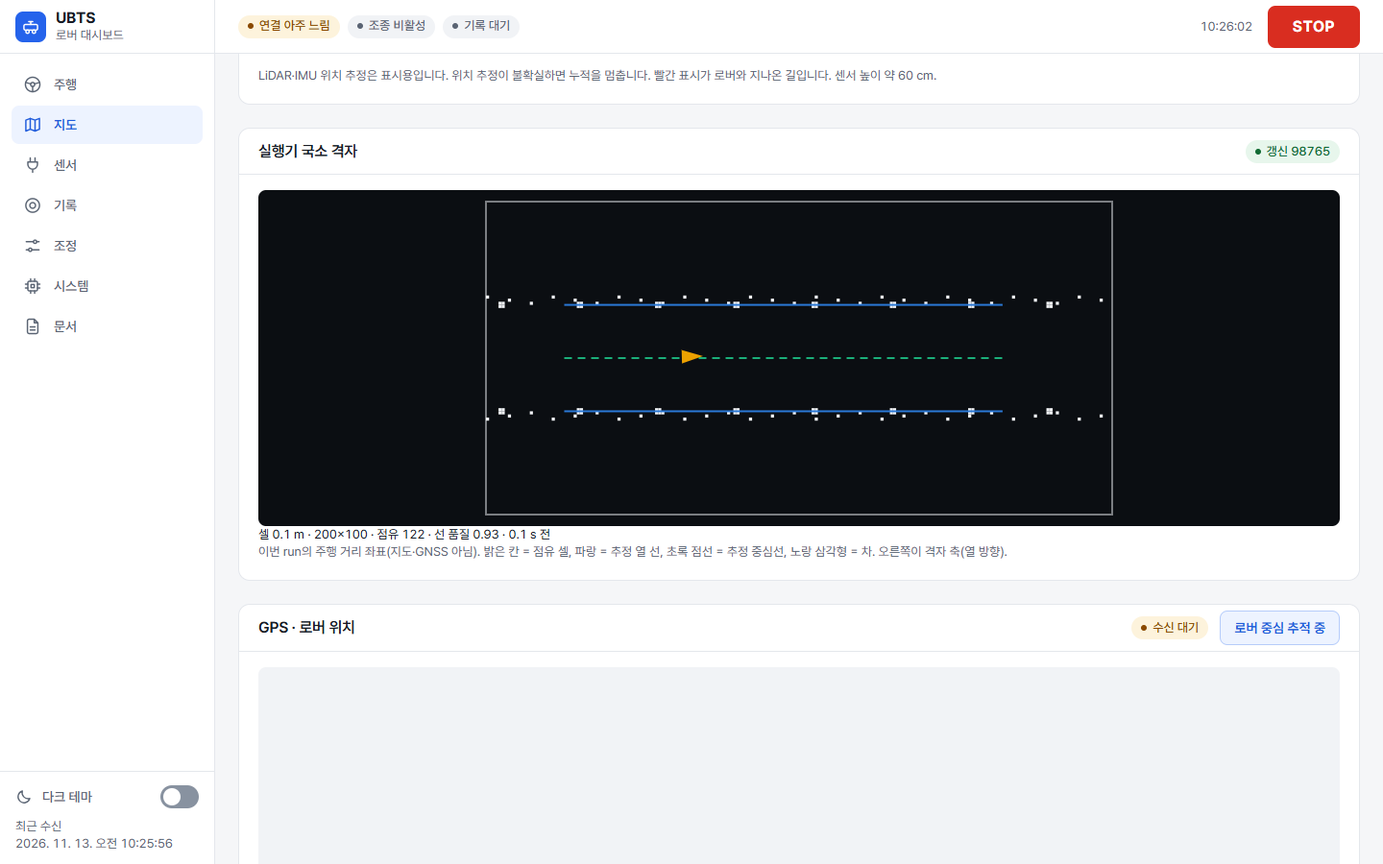
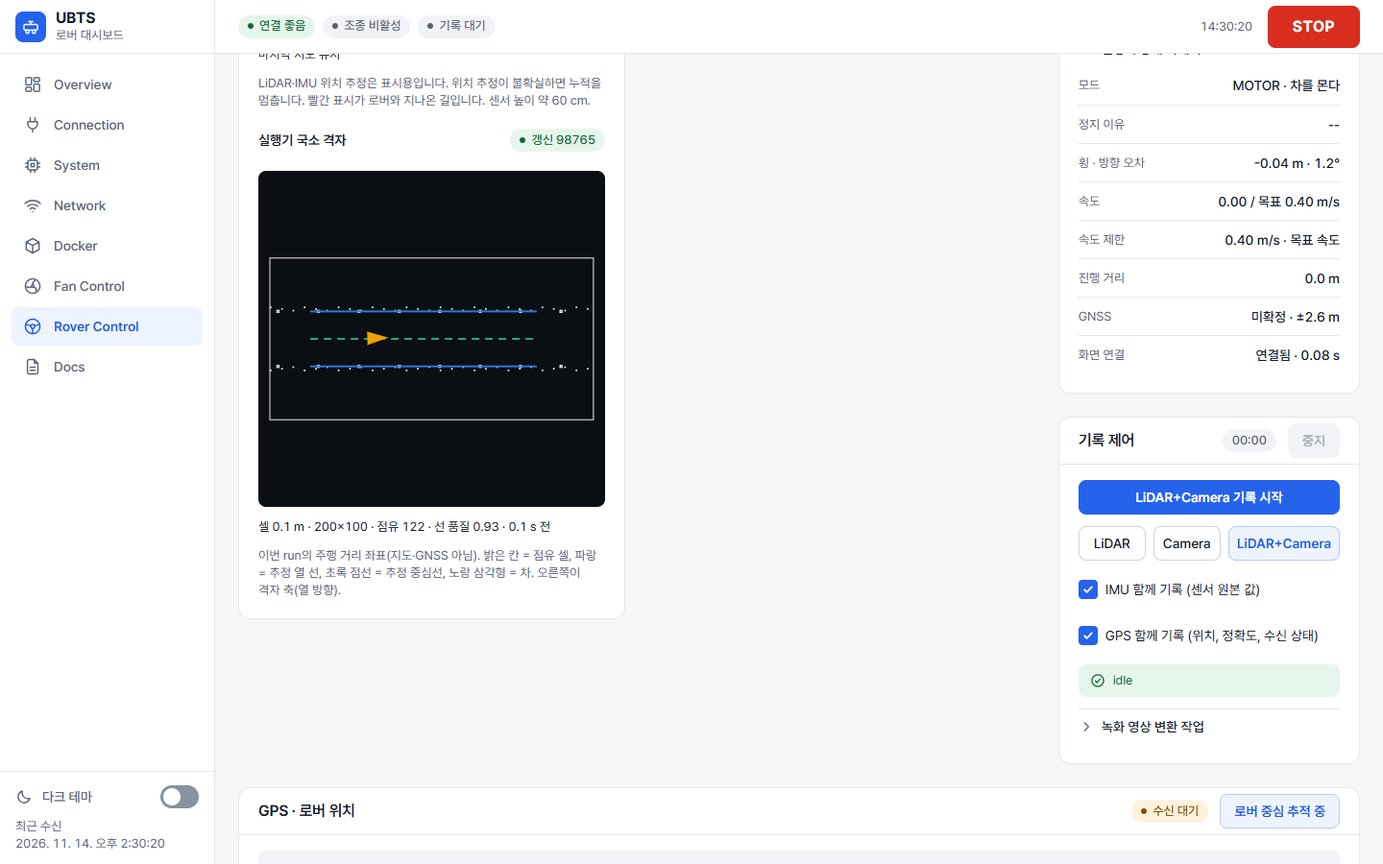
Docs: the restored menu pages and where the new parts of Rover Control are
docs/SCREENS_KO.md is rewritten for UI-16: the eight menu pages with
their panels in the old order, the six-screen addresses as aliases, the
place and id of each new part (steering, potentiometer, autonomy, field
tuning values, executor local grid) and the stream and poll rules of a
page with many panels. The README describes the eight pages; its
pictures are taken again from the mock server (Rover Control 1440 and
390, the steering panel on a phone, the autonomy section with the local
grid, the opened tuning values, the local grid under the live map; the
largest is 175 kB). The steering server specification, the documents
index, the install kit notes, the AP checklist and the slow-link bench
notes name the pages of the restored layout.

diff --git a/README.md b/README.md
@@ -5,60 +5,66 @@ UNIST BTS 과수원 로버의 웹 대시보드입니다. 차에 실린 Jetson에
 조종과 STOP이 먼저 지나가게 만들었습니다.
 
 > **English summary.** Web dashboard of a small orchard rover (a converted ride-on toy car). It runs on the rover's
-> Jetson Orin Nano and is opened from a phone or laptop over the rover's own 2.4 GHz Wi-Fi access point. Six screens:
-> drive (manual control with a STOP that always goes first, camera or LiDAR view, autonomy start/stop), map (live
-> occupancy grid, GNSS position), sensors (2D LiDAR RPLIDAR S2, BNO085 IMU, USB camera, link status), records (recording
-> and synchronized playback), tuning
-> (the row executor's field tuning set) and system (Jetson resources, network, Docker, fan). The server is plain Python
+> Jetson Orin Nano and is opened from a phone or laptop over the rover's own 2.4 GHz Wi-Fi access point. Eight menu
+> pages, as before the redesign: Overview, Connection (2D LiDAR RPLIDAR S2, USB camera, link status), System (Jetson
+> resources), Network, Docker, Fan Control, Rover Control (LiDAR with the live occupancy grid map, camera, GNSS position,
+> BNO085 IMU, manual control with a STOP that always goes first, autonomy start/stop, the row executor's field tuning
+> set, recording and synchronized playback) and Docs. A STOP is in the status bar of every page. The server is plain Python
 > (standard library HTTP server, no web framework); sensors come from ROS 2 bridge containers over WebSocket, manual
 > control goes to the motor bridge over a Unix socket, autonomy goes through the row executor's operator API. The vehicle
 > is being refitted from differential (left/right PWM) to front-wheel steering; both control panels exist. The slow-link
 > work was measured on a PC link emulator, not yet on the rover's real Wi-Fi. The documents are in Korean.
 
-| 주행 화면 (노트북 1440 px) | 휴대폰 (390 px) |
+| Rover Control (노트북 1440 px) | 휴대폰 (390 px) |
 |---|---|
-| ![주행 화면, 노트북](docs/assets/screens/drive_1440.png) | ![주행 화면, 휴대폰](docs/assets/screens/drive_390.png) |
+| ![Rover Control, 노트북](docs/assets/screens/rover_control_1440.png) | ![Rover Control, 휴대폰](docs/assets/screens/rover_control_390.png) |
 
-[화면 · 모의 자료] 2026-11-13 화면 6개 판. 화면 점검 도구의 모의 서버(`tools/ui_check`)가 내는 예시 자료로 찍었다(실제 센서 값이 아니다).
-왼쪽은 LiDAR 큰 보기와 차동 차량의 주행 제어, 오른쪽은 같은 화면의 휴대폰 첫 화면이다. STOP은 모든 화면의 상태 막대와 주행 제어에 있다.
+[화면 · 모의 자료] 2026-11-14 판(메뉴를 수정 전 구성으로 되돌림). 화면 점검 도구의 모의 서버(`tools/ui_check`)가 내는 예시 자료로 찍었다(실제 센서 값이 아니다).
+왼쪽은 Rover Control의 첫 화면(LiDAR, 카메라, 차동 차량의 주행 제어), 오른쪽은 같은 페이지의 휴대폰 첫 화면이다. STOP은 모든 페이지의 상태 막대와 주행 제어에 있다.
 
 > **지금 상태.** 화면과 서버는 가짜 센서·가짜 MCU·가짜 실행기와 느린 연결 시험대로 확인했다. 조향 차량(앞바퀴 조향, 조향 펌웨어 V3)은
 > 아직 차에 없어서 조향 화면은 실차에서 확인하지 않았다. 이 판은 Jetson에 아직 설치하지 않았다(설치 묶음은 준비됨). 자세한 것은 [현재 한계](#현재-한계).
 
 ## 주요 기능
 
-**화면 6개.** 휴대폰과 노트북 모두에서 쓰도록 다시 나눴다([`docs/SCREENS_KO.md`](docs/SCREENS_KO.md)). 메뉴는 한글이다.
+**메뉴 8쪽.** 메뉴와 페이지 구성은 화면 개편 전과 같다(2026-11-14 사용자 지시로 되돌림, [`docs/SCREENS_KO.md`](docs/SCREENS_KO.md)).
+디자인(색·글꼴·부품)과 상태 막대의 STOP, 느린 연결 최적화는 새 판 그대로다. 그때 없던 기능은 Rover Control 안에 있다.
 
-| 화면 | 주소 | 하는 일 |
+| 메뉴 | 주소 | 하는 일 |
 | --- | --- | --- |
-| 주행 | `/rover-control` | 조종 활성화와 STOP, 차동 패드(W/A/S/D) 또는 조향 패널, 속도 상한, 카메라·LiDAR 중 하나를 크게, 자율 시작·정지 |
-| 지도 | `/map` | 실시간 점유 격자 지도(LiDAR·IMU), 실행기의 국소 격자와 추정 열 선·중심선, GPS 위치(오프라인 지도) |
-| 센서 | `/sensors` | LiDAR·카메라·IMU·GPS 상태와 보기, 브리지·ESP USB·ROS·녹화기 연동 상태, 조향 가변저항 |
-| 기록 | `/records` | 녹화 시작·멈춤, 기록 목록, 센서·영상 동기 재생, 기록 지도, 내려받기 |
-| 조정 | `/tuning` | 자율 실행기의 현장 조정 묶음(기본 값 바꾸기, 프리셋, 변경 기록). 차가 섰을 때만 바뀐다 |
-| 시스템 | `/system` | Jetson CPU·메모리·디스크·온도, 네트워크와 Wi-Fi/AP 전환, Docker 컨테이너, 팬 |
+| Overview | `/` | CPU·메모리·외부 IP·Docker 요약, CPU / Memory와 Network RX / TX 그래프, ROS2 / Rover 연결, Jetson 정보 |
+| Connection | `/connection` | LiDAR·카메라 연결 상태, RPLIDAR 상태 확인, 2D LiDAR 지도(내려받기), 카메라 실시간 화면, 서비스 연결, ROS2 센서 링크 |
+| System | `/system` | Jetson CPU(코어별)·메모리·Swap·네트워크·전력 그래프, 디스크 |
+| Network | `/network` | 외부·내부 주소, 오프라인 AP / 저장된 Wi-Fi 전환, RX / TX, 연결 정보 |
+| Docker | `/docker` | 컨테이너 CPU·메모리, 목록, 상세·로그, 시작·중지·재시작(확인 창) |
+| Fan Control | `/fan` | 온도, 팬 PWM(자동·수동) |
+| Rover Control | `/rover-control` | LiDAR(안에 실시간 점유 격자 지도와 실행기 국소 격자), 카메라, GPS 위치(오프라인 지도), IMU, 주행 제어(차동 패드 또는 조향 패널, 조향 가변저항, 자율 시작·정지), 현장 조정 값(접힘), 기록 제어, 연동 상태, 기록 데이터(동기 재생, 기록 지도, 내려받기) |
+| Docs | `/docs` | 운영 문서 |
+
+화면 6개 판의 주소(`/map`, `/records`, `/tuning`, `/sensors`, `/system/*` 등)는 별칭으로 남아 그 기능이 있는 페이지로 간다.
 
 **센서 실시간.** LiDAR(RPLIDAR S2 `/scan`), 카메라(UVC, 녹화는 원본 1080p), IMU(BNO085 원본, 소프트웨어 보정 없음), GPS(ZED-F9P)를
 ROS 2 브리지 컨테이너가 WebSocket으로 보내고 대시보드 서버가 중계한다. 화면이 받은 것을 확인한 뒤에만 다음 것을 보내서 느린 연결에서 밀리지 않는다.
-화면에 보이지 않는 패널과 숨긴 탭은 받지 않는다.
+화면에 보이지 않는 패널과 숨긴 탭은 받지 않는다(Rover Control처럼 패널이 많은 페이지에서도 화면에 들어온 패널의 스트림만 연다).
 
 **조종과 STOP.** 조종 활성화 뒤 키보드(W/A/S/D, Q/E로 속도)나 화면 버튼으로 몬다. 손을 떼면 감속하고, 입력이 0.75초 끊기면 차가 스스로 선다.
 STOP·Esc·창 이탈은 즉시 정지와 조종 해제다. 조종 요청은 다른 요청과 따로, 가장 먼저 보낸다(`controlRequest`, NET-05).
 PWM 값은 요청한 출력이지 실제 바퀴 속도가 아니다(차에 휠 엔코더가 없다).
 
-**조향 차량(수동·자율·조정).** 차가 앞바퀴 조향으로 바뀌는 중이다. `DASHBOARD_VEHICLE=front_steer`면 조향 패널(구동 W/S, 조향 A/D·가운데,
-목표·측정 조향각)이 보이고, 자율 칸에서 "준비 → Arm → 자율 주행 시작"을 누르면 실행기가 열 끝까지 간다(시뮬레이션에서 확인, 실차 전).
-화면을 떠나거나 탭을 숨기면 0.5초 뒤 차가 서고, 다시 출발은 사람이 누른다. 서버 사양: [`docs/STEERING_SERVER_KO.md`](docs/STEERING_SERVER_KO.md).
+**조향 차량(수동·자율·조정).** 차가 앞바퀴 조향으로 바뀌는 중이다. `DASHBOARD_VEHICLE=front_steer`면 Rover Control의 주행 제어 패널에
+조향 패널(구동 W/S, 조향 A/D·가운데, 목표·측정 조향각)과 조향 가변저항 값이 보이고, 그 아래 자율 칸에서 "준비 → Arm → 자율 주행 시작"을 누르면
+실행기가 열 끝까지 간다(시뮬레이션에서 확인, 실차 전). Rover Control을 떠나거나 탭을 숨기면 0.5초 뒤 차가 서고(페이지 안에서 스크롤하는 것은 괜찮다),
+다시 출발은 사람이 누른다. 현장 조정 값은 같은 페이지의 접힌 칸에 있다. 서버 사양: [`docs/STEERING_SERVER_KO.md`](docs/STEERING_SERVER_KO.md).
 
 | 조향 수동 조종 (휴대폰) | 자율 주행 칸 (실행기 상태 자세히) |
 |---|---|
 | ![조향 패널](docs/assets/screens/steer_drive_390.png) | ![자율 칸](docs/assets/screens/steer_autonomy_1440.png) |
 
-| 조정 화면 | 지도: 실행기 국소 격자 |
+| 현장 조정 값(펼친 칸) | 실시간 지도 아래 실행기 국소 격자 |
 |---|---|
 | ![조정 화면](docs/assets/screens/tuning_1440.png) | ![국소 격자](docs/assets/screens/map_local_grid_1440.png) |
 
-[화면 · 모의 자료] 위 네 장은 `front_steer`(조향 차량) 화면을 모의 서버의 예시 자료로 찍은 것이다. 실행기 상태·조정 값·격자는 가짜 실행기의 값이고
+[화면 · 모의 자료] 위 네 장은 `front_steer`(조향 차량)의 Rover Control을 모의 서버의 예시 자료로 찍은 것이다(그 부분으로 스크롤한 화면). 실행기 상태·조정 값·격자는 가짜 실행기의 값이고
 현장 값이 아니다. 조정 묶음의 이름·범위·단위는 실행기가 알려 준 것을 그대로 보인다.
 
 **느린 연결 최적화.** PC에서 2.4 GHz 연결을 흉내 내는 시험대(`tools/slow_link`)로 재며 고쳤다. 아래는 그 측정의 일부다(주행 화면 2분, LiDAR는 주행 화면의
@@ -88,7 +94,7 @@ LiDAR 큰 보기, 지도는 지도 화면 10분. 기준은 화면 개편 전의 
 ```mermaid
 flowchart LR
   subgraph PHONE["휴대폰 · 노트북"]
-    B["브라우저<br/>화면 6개"]
+    B["브라우저<br/>메뉴 8쪽"]
   end
   subgraph JET["Jetson (차)"]
     D["대시보드 서버<br/>dashboard_server<br/>HTTP :8080"]
@@ -166,7 +172,7 @@ scripts/run_local.sh            # = python3 -m dashboard_server --host 127.0.0.1
 | 위치 | 내용 |
 | --- | --- |
 | `dashboard_server/` | 대시보드 서버(Python 표준 라이브러리 HTTP 서버): 화면·정적 파일, 상태 API, WebSocket 중계, 조종 중계(`rover_api.py`), 실행기 중계(`executor_proxy.py`), 조정(`steer_tuning.py`), 기록·지도, 확장 지점(`extensions.py`) |
-| `static/` | 화면: `index.html`, `app/`(화면 스크립트 17개), `steer/`(조향·자율·조정 화면), `css/`, `vendor/`(지도·영상 라이브러리, 글꼴) |
+| `static/` | 화면: `index.html`, `app/`(화면 스크립트 17개), `steer/`(Rover Control의 조향·자율·조정 값·국소 격자), `css/`, `vendor/`(지도·영상 라이브러리, 글꼴) |
 | `scripts/` | Jetson에서 도는 ROS 2 드라이버·브리지(`*_ros2_driver.py`, `*_ws_bridge.py`), 조종 브리지(차동 `rover_control_bridge.py`, 조향 V3 `steer_rover_bridge.py`), 녹화기, 기록 후처리 |
 | `deploy/` | `jetson_dashboard/`(설치 묶음), `offline_ap/`(무선 AP 전환), `systemd/`, `native_sensor_stream/`·`native_sensor_shadow/`(차동 시절 관찰 서비스) |
 | `tools/` | `ui_check/`(화면 점검), `slow_link/`(느린 통신 시험대, 현장 연결 기록 보고), `fonts/`(화면 글꼴 분할), 차동 시절 관찰 도구 |
@@ -181,7 +187,7 @@ scripts/run_local.sh            # = python3 -m dashboard_server --host 127.0.0.1
 
 | 문서 | 내용 |
 | --- | --- |
-| [`docs/SCREENS_KO.md`](docs/SCREENS_KO.md) | 화면 6개, 옛 주소, 기능 대조표 |
+| [`docs/SCREENS_KO.md`](docs/SCREENS_KO.md) | 메뉴 8쪽(수정 전 구성), Rover Control 안의 새 기능 자리, 화면 6개 주소의 별칭 |
 | [`docs/STEERING_SERVER_KO.md`](docs/STEERING_SERVER_KO.md) | 조향 차량 서버 사양: 조종 API, 조향 상태, 자율 시작·정지 중계, 조정 값, 정지 규칙, 차동 판과의 공존 |
 | [`docs/slow_link.md`](docs/slow_link.md) | 느린 연결: 시험대, 기준 측정, 목표 32개, 고친 뒤와 최종 측정 |
 | [`docs/WIFI_AP_CHECKLIST_KO.md`](docs/WIFI_AP_CHECKLIST_KO.md) | 차의 무선 AP 현장 점검표, 연결 기록(`?link_log=1`) |
@@ -203,7 +209,7 @@ python3 -m unittest discover -s tests
 node tests/test_control_path_regression.js && node tests/test_rover_browser.js && node tests/test_rover_pad_touch.js
 python3 -m unittest tests.test_control_deadman_regression
 
-# 화면 점검: 11경로 × 5화면 크기 × 자료 2종 = 110쪽, 받아들인 기록과 비교 (Playwright, 깔린 Chrome)
+# 화면 점검: 메뉴 8쪽 × 5화면 크기 × 자료 2종 = 80쪽, 받아들인 기록과 비교 (Playwright, 깔린 Chrome)
 python tools/ui_check/run_checks.py --static static --out <결과 폴더>
 python tools/ui_check/compare.py --run <결과 폴더>/ui_check.json --baseline tools/ui_check/accepted/ui_check.json
 
@@ -215,7 +221,7 @@ CI(`.github/workflows/smoke.yml`)는 컴파일과 Python 시험을 돌린다. RO
 
 ## 현재 한계
 
-- **실차 확인 전.** 이 판(화면 6개, 느린 연결 최적화, 조향 화면)은 PC에서 가짜 센서·MCU·실행기로만 확인했고 Jetson에 아직 설치하지 않았다.
+- **실차 확인 전.** 이 판(메뉴 8쪽, 느린 연결 최적화, 조향 칸)은 PC에서 가짜 센서·MCU·실행기로만 확인했고 Jetson에 아직 설치하지 않았다.
 - **조향 차량은 아직 없다.** 조향 펌웨어 V3·조향 브리지·실행기가 차에 올라가기 전까지 실제 차는 차동(좌우 PWM) 펌웨어 V2로 수동 주행한다.
   그래서 차동 시절 자율·관찰 코드는 조향 실행기로 바뀔 때까지 남겨 둔다(결정 나5, [`docs/STEERING_SERVER_KO.md`](docs/STEERING_SERVER_KO.md) 9절).
 - **느린 연결 값은 흉내 낸 값.** 연결 프로필(좋음 10 Mbit/s ~ 아주 나쁨 150 kbit/s)과 연결 등급 경계(25 / 90 / 220 ms)는 가정이다.

diff --git a/docs/SCREENS_KO.md b/docs/SCREENS_KO.md
@@ -1,54 +1,74 @@
-# 화면 6개 재구성 (UI-06 ~ UI-14)
+# 메뉴와 페이지 구성 (UI-16, 수정 전 구성으로 되돌림)
 
-- 작성: 2026-11-13 (묶음 S4b 2단계, 브랜치 `screens-20261113`, 시작 `cfdfbe6`).
-- 결정: todo 나15(휴대폰·노트북 모두, 메뉴는 한글, `/research` 삭제, 시스템 관리는 한 화면). 화면은 주행·지도·센서·기록·조정·시스템 6개이고 문서는 메뉴 끝의 보조 화면으로 둔다.
-- 원칙: 조종·STOP 코드(`static/app/10-rover-control.js`)와 `controlRequest()`(`static/app/01-format-http.js`)는 글자 그대로 둔다. 그래서 주행 화면의 주소는 `/rover-control` 그대로다. 상태 막대(연결 등급 배지 포함)의 동작은 그대로다.
+- 작성: 2026-11-14 (브랜치 `ui-menu-restore-20261114`, 시작 `a92cfec`).
+- 사용자 지시(2026-11-14): "대시보드 메뉴 구성이 수정하기 전 버전이랑 동일해야해." 답 세 가지:
+  1. 메뉴는 수정 전과 같은 8개(영문 이름, 같은 순서, 같은 주소). Research(`/research`)는 되살리지 않는다.
+  2. 각 페이지의 내용도 수정 전의 페이지와 순서로 돌린다.
+  3. 그때 없던 기능(앞바퀴 조향 조종, 자율 시작·정지, 현장 조정 값, 실행기 국소 격자, 조향 가변저항 표시)은 Rover Control 안에 둔다. 메뉴 항목을 더하지 않는다.
+- 기준: 수정 전은 `becfc6d`(태그 `main-before-ui-20261112` 뒤에 1차 버그 수정만 들어간 판)의 `static/index.html`이다.
+  `tests/test_menu_restore.js`가 메뉴(이름·순서·주소)와 페이지마다의 패널 제목(순서 포함)을 이 판과 견준다(`tests/fixtures/menu_before_redesign_becfc6d.json`).
+- 그대로 둔 것: 새 디자인(색·글꼴·부품, 아이콘), 모든 페이지 위의 상태 막대와 STOP, 느린 연결 최적화(필요할 때 받는 라이브러리, 보이는 패널만 스트림,
+  상태 묶음, 연결 등급), 조종·STOP 코드(`static/app/10-rover-control.js`, `controlRequest()`, `static/steer/steer-drive.mjs`, `steer-control-rules.js`, `auto-panel.mjs`는 글자 그대로).
+- 2026-11-13의 화면 6개 구성(UI-06)은 이 문서의 git 이력(`a92cfec`)에 있다. 화면 점검의 그때 기록은 `tools/ui_check/accepted/six_screens_20261113.json`.
 
-## 1. 경로
+## 1. 메뉴와 주소
 
-| 화면 | 주소 | 옛 주소(별칭) |
-| --- | --- | --- |
-| 주행 | `/rover-control` | `/`, `/drive` |
-| 지도 | `/map` | — |
-| 센서 | `/sensors` | `/connection` |
-| 기록 | `/records` | — |
-| 조정 | `/tuning` | — |
-| 시스템 | `/system`(요약), `/system/resources`, `/system/network`, `/system/docker`, `/system/fan` | `/network`, `/docker`, `/fan`, `/research` |
-| 문서 | `/docs`, `/docs/<문서>` | — |
-
-옛 주소로 들어오면 새 주소로 바꿔 적는다(`history.replaceState`). 서버는 옛 주소와 새 주소 모두에 같은 화면을 준다.
-
-## 2. 기능 대조표 (옛 위치 → 새 위치)
-
-| 옛 화면 | 옛 패널 | 새 화면 | 비고 |
+| 메뉴 | 주소 | 페이지 제목 | 패널(수정 전 순서) |
 | --- | --- | --- | --- |
-| 주행 | 상태 띠(ESP, 모드, ROS 2, 기록) | 주행 | 그대로 |
-| 주행 | 주행 제어(차동 패드, 조향 패널, 자율 칸) | 주행 | 맨 앞. 휴대폰 첫 화면에 STOP·활성화·구동·조향 |
-| 주행 | 카메라 | 주행 | 큰 보기: 카메라와 LiDAR 가운데 하나를 고른다 |
-| 주행 | LiDAR(극좌표 그림, 범위·점 수) | 주행 | 큰 보기 |
-| 주행 | LiDAR 안 실시간 점유 격자 지도, 매핑 작업 관리 | 지도 | 지도 화면의 첫 칸 |
-| 주행 | GPS · 로버 위치(지도, 연결 정보) | 지도 | 지도 화면의 둘째 칸 |
-| — | 실행기 국소 격자와 추정 열 선·중심선(새) | 지도 | 실행기가 `local_grid_map`을 낼 때만 보인다 |
-| 주행 | IMU | 센서 | |
-| 주행 | 연동 상태(브리지, ESP USB, ROS, 녹화기) | 센서 | |
-| 주행 | 기록 제어(시작·멈춤, 종류, 매체 작업) | 기록 | 상태 막대의 기록 표시는 모든 화면에 그대로 |
-| 주행 | 기록 데이터(목록, 동기 재생, 기록 지도, 내려받기) | 기록 | 재생 규칙은 그대로 |
-| 연결 | 상태 띠(LiDAR, 프로토콜, 스캔, 카메라) | 센서 | |
-| 연결 | RPLIDAR 상태 확인 | 센서 | |
-| 연결 | 2D LiDAR 지도(다운로드 포함) | 센서 | 센서 화면의 LiDAR 보기 하나 |
-| 연결 | 카메라 실시간 화면(해상도·FPS) | 센서 | 센서 화면의 카메라 보기 하나 |
-| 연결 | 서비스 연결, ROS 2 센서 연결 | 센서 | |
-| 개요 | 상태 띠, CPU·메모리, 네트워크, ROS 2·로버 연결, Jetson 정보 | 시스템 · 요약 | |
-| 시스템 | CPU, 메모리, Swap, 네트워크, 전력, 디스크 | 시스템 · 자원 | |
-| 네트워크 | Wi-Fi 방식, RX·TX, 연결 정보 | 시스템 · 네트워크 | |
-| 컨테이너 | 상태 띠, CPU·메모리, 목록·자세히·로그 | 시스템 · 컨테이너 | |
-| 팬 | 팬 출력, 팬 온도 | 시스템 · 팬 | |
-| 연구 | 센서 텔레메트리, 실험 데이터, 수행계획 | 지움 | 결정 나15. 서버의 `/api/plan`은 그대로 |
-| 조정 | 기본·고급 묶음, 안전 한계, 변경 기록 | 조정 | 실행기 현장 조정 묶음(field_tuning)을 그대로 그린다: 기본 묶음 바꾸기, 프리셋 불러오기·저장, 고급·잠금 값 보기 |
-| 문서 | 목록, 읽기 | 문서 | 메뉴 끝 |
+| Overview | `/` | UBTS Dashboard | 상태 띠(CPU, 메모리, 외부 IP, Docker), CPU / Memory, Network RX / TX, ROS2 / Rover, Jetson 정보 |
+| Connection | `/connection` | 연결 상태 | 상태 띠(LiDAR, 프로토콜, 스캔 수신, 카메라), RPLIDAR 상태 확인, 2D LiDAR 지도, 카메라 실시간 화면, 서비스 연결, ROS2 센서 링크 |
+| System | `/system` | 시스템 리소스 | CPU, Memory, Swap, Network, Power, Disk |
+| Network | `/network` | 네트워크 상태 | 상태 띠(외부 IP, 내부 주소), 오프라인 AP / 저장된 Wi-Fi, RX / TX, 연결 정보 |
+| Docker | `/docker` | 컨테이너 대시보드 | 상태 띠, Container CPU, Container Memory, 컨테이너 목록, 컨테이너 상세(중지·재시작 전 확인 창) |
+| Fan Control | `/fan` | Fan Control | 온도, 팬 출력, Fan Temperature |
+| Rover Control | `/rover-control` | Rover Control | 2절 |
+| Docs | `/docs`, `/docs/<문서>` | 문서 | 문서 목록, 읽기 |
 
-한 화면에 LiDAR·카메라 보기는 하나씩만 있다(주행 큰 보기, 센서 화면). 화면을 떠나면 그 화면의 웹소켓을 닫는다(지금 규칙 그대로: LiDAR·카메라·IMU는 주행과 센서 화면에서만 연다).
+화면 6개 구성의 주소는 별칭으로 남는다. 들어오면 페이지가 주소창을 메뉴의 주소로 바꿔 적고(`history.replaceState`), Rover Control의 한 부분을
+가리키던 주소는 그 부분으로 한 번 스크롤한다(`ROUTE_FOCUS`, `static/app/00-config-state.js`). 서버(`APP_ROUTES`, `dashboard_server/app.py`)는 둘 다에 같은 쪽을 준다.
 
-## 3. 상태 자료 묶음
+| 옛 주소(화면 6개) | 가는 곳 |
+| --- | --- |
+| `/drive` | `/rover-control` |
+| `/map` | `/rover-control`, 실시간 점유 격자 지도로 스크롤 |
+| `/records` | `/rover-control`, 기록 제어로 스크롤 |
+| `/tuning` | `/rover-control`, 현장 조정 값을 펼치고 스크롤 |
+| `/sensors` | `/connection` |
+| `/system/resources`, `/system/network`, `/system/docker`, `/system/fan` | `/system`, `/network`, `/docker`, `/fan` |
+| `/research` | `/` (연구 페이지는 없앤 채로 둔다, 결정 나15) |
 
-`/api/telemetry?bundle=drive`(NET-06)는 주행·지도·기록·조정 화면이 쓴다. 센서와 시스템 화면은 전체 묶음을 쓴다.
+## 2. Rover Control
+
+수정 전 순서: 상태 띠(ESP8266, 모드, ROS 2, 기록) → LiDAR(안에 실시간 점유 격자 지도) → 카메라 → GPS · 로버 위치 → IMU → 주행 제어 → 기록 제어 → 연동 상태 → 기록 데이터(안에 기록된 점유 격자 지도, Recorded IMU, 기록된 로버 위치, 기록된 모터 핀 신호).
+넓은 화면(900 px 이상)에서는 수정 전처럼 세 칸이다: LiDAR | 카메라 | 주행 제어, 그 아래 기록 제어(셋째 칸), 그 아래 GPS(전체 폭), IMU와 현장 조정 값, 연동 상태, 기록 데이터.
+
+새 기능이 들어간 곳(`id`는 고정, 다른 작업이 이 이름으로 찾는다):
+
+| 새 기능 | 자리 | id |
+| --- | --- | --- |
+| 앞바퀴 조향 수동 조종(구동 W/S, 조향 A/D·가운데, 계기) (UI-07) | 주행 제어 패널, 차동 부분(자율 순항속도 줄, 활성화, 속도, 패드) 다음 | `steerDrive` |
+| 조향 가변저항(측정 각도·원값·보정·결함) | 주행 제어 패널, 조향 조종 바로 아래 | `steerPotPanel` |
+| 한 번 눌러 자율 시작, STOP, heartbeat (UI-08) | 주행 제어 패널 맨 아래 '자율주행 · 열 따라가기' | `autoPanel` |
+| 현장 조정 값(기본·고급·잠금 묶음, 프리셋, 변경 기록) (UI-12) | 주행 제어 다음의 '현장 조정 값' 패널, 접힌 칸 | `tuningPanel`, 접힘 `tuningDetails`, 폼 `tuneForm` |
+| 실행기 국소 격자와 열 선·중심선 (UI-09) | LiDAR 패널 안 실시간 점유 격자 지도 바로 아래(격자가 올 때만 보임) | `localGridPanel`, 지도 칸 `liveMapPanel` |
+
+조향·가변저항·자율 칸은 `front_steer` 대시보드(`DASHBOARD_VEHICLE=front_steer`)에서만 보이고, 차동 대시보드에서는 수정 전의 차동 패드가 보인다.
+현장 조정 값은 모든 대시보드에 있다(실행기가 없으면 그렇게 말한다).
+
+## 3. 한 페이지에 패널이 모여서 지키는 것
+
+Rover Control에 패널이 다시 모였으므로, 느린 연결에서 페이지를 열 때 모든 것을 한꺼번에 받지 않게 했다.
+
+- **스트림은 그 패널이 화면에 있을 때만 연다.** LiDAR·카메라·IMU 소켓은 그림이 화면에 들어올 때 열고, 1초 넘게 화면 밖이면 닫는다(사용자가 멈춘 것으로 치지 않음).
+  시작은 관찰기(IntersectionObserver)의 첫 보고를 기다린다. 카메라의 NET-08 규칙을 LiDAR·IMU에 그대로 썼다(`static/app/05-live-lidar-camera.js`).
+  GPS 소켓도 GPS 지도 칸이 화면에 있을 때만 연다(`static/gps-map.js`). 지도 라이브러리는 전처럼 그 칸이 가까워질 때 받는다.
+- **주기적으로 묻는 것도 보일 때만.** 실시간 점유 격자 지도와 실행기 국소 격자는 지도 칸이 화면에 있을 때만 묻는다(`static/live-map.js`, `static/steer/local-grid.mjs`).
+  현장 조정 값은 접힌 칸을 열었을 때만 묻는다(`static/steer/tuning-page.mjs`). 조향 가변저항 줄은 조향 패널이 받은 상태 답을 같이 쓰고, 그 답이 1초보다 오래됐을 때만 따로 묻는다.
+- **자율 heartbeat는 스크롤과 무관하다.** 자율 run 중에는 Rover Control이 열려 있고 탭이 보이면 heartbeat가 계속 나간다. 지도를 보려고 스크롤해도 차가 서지 않는다.
+  다른 페이지로 가거나 탭을 숨기면 전처럼 멈춘다(차가 실행기 기한 뒤 선다).
+- 상태 요청은 Rover Control만 주행 묶음(`/api/telemetry?bundle=drive`, NET-06)을 쓰고 다른 페이지는 전체를 쓴다.
+- Connection 페이지에는 LiDAR 지도와 카메라 보기가 따로 있다(수정 전과 같음). IMU 그림은 Rover Control에만 있어서 IMU 소켓은 Rover Control에서만 연다.
+
+시험: `tests/test_menu_restore.js`(메뉴·페이지 제목·새 기능 자리·별칭), `tests/test_rover_panel_streams.js`(LiDAR·IMU·카메라 소켓과 패널, 주소),
+`tests/test_rover_panel_polls.mjs`(지도·국소 격자·조정 값·가변저항의 요청), `tests/test_ui_frame.js`(상태 막대와 STOP, 페이지 머리).
+화면 점검(`tools/ui_check`) 받아들인 기록은 이 구성의 80쪽이다. 느린 연결 측정은 `docs/slow_link.md` 13절.

diff --git a/docs/STEERING_SERVER_KO.md b/docs/STEERING_SERVER_KO.md
@@ -13,7 +13,7 @@
 
 ```mermaid
 flowchart LR
-  B["브라우저<br/>(주행·조정 화면)"] -->|"HTTP /api/rover/*<br/>(수동 조종)"| D["대시보드 서버<br/>(dashboard_server)"]
+  B["브라우저<br/>(Rover Control)"] -->|"HTTP /api/rover/*<br/>(수동 조종)"| D["대시보드 서버<br/>(dashboard_server)"]
   B -->|"HTTP /api/executor/*<br/>(자율 시작·정지·조정)"| D
   D -->|"Unix 소켓 JSON 한 줄<br/>/run/ubts-rover/control.sock"| BR["조향 브리지 V3<br/>(scripts.steer_rover_bridge)"]
   D -->|"HTTP + 토큰<br/>(운영자 API)"| EX["자율 실행기<br/>(row_executor)"]
@@ -34,7 +34,7 @@ flowchart LR
 | `DASHBOARD_PROVIDER` | `패키지.모듈:클래스` | 없음 | 상태 제공자(`TelemetryProvider` 대신). 시뮬레이션 전용 |
 | `DASHBOARD_EXTRA_STATIC` | 폴더 경로 | 없음 | `/ext-static/` 아래로 내보내는 추가 정적 폴더. 시뮬레이션 전용 |
 | `DASHBOARD_EXTENSION` | `패키지.모듈` | 없음 | 추가 경로 표(`ROUTES`). 시뮬레이션 전용 |
-| `UBTS_EXECUTOR_URL` | `http://호스트:포트` | 없음 | 자율 실행기 운영자 HTTP. 없으면 자율·조정 화면은 "실행기 설정 없음" |
+| `UBTS_EXECUTOR_URL` | `http://호스트:포트` | 없음 | 자율 실행기 운영자 HTTP. 없으면 Rover Control의 자율·조정 칸은 "실행기 설정 없음" |
 | `UBTS_EXECUTOR_TOKEN_FILE` | 파일 경로 | 없음 | 실행기가 시작할 때 쓰는 토큰 파일(`operator_token.txt`) |
 
 - 화면은 `GET /api/dashboard/config`로 `{runtime_mode, vehicle_kind, executor_configured, extension}`을 받는다. 비밀 값(토큰, 경로)은 넣지 않는다.
@@ -147,9 +147,9 @@ flowchart LR
   `mode`(SHADOW/MOTOR), `state`, `reason`, `end_reason`, `controller_mode`, `profile`, `vehicle_control`, `lidar_age`, `imu_age`,
   `single_row {phase, lateral_error_m, heading_error_deg, distance_m, speed_m_s, target_speed_m_s, stop_reason, stop_category, confidence.level}`,
   `gnss {state, fix, age_s, h_acc_m, used}`, `bridge_detail {state, latch_reason}`, `lease_lost {where, error, bridge_reason, bridge_latches, steering_fault}`(규약 개정 3, 없으면 칸 없음).
-- `GET /api/executor/status?grid=1`(지도 화면)만 실행기의 국소 격자 `local_grid_map`(스키마 `ubts.row_executor.local_grid.v1`, 시뮬레이션 레포 `docs/steering/LOCAL_GRID_KO.md`)을 더 넘긴다:
+- `GET /api/executor/status?grid=1`(Rover Control의 실시간 지도 칸이 화면에 있을 때)만 실행기의 국소 격자 `local_grid_map`(스키마 `ubts.row_executor.local_grid.v1`, 시뮬레이션 레포 `docs/steering/LOCAL_GRID_KO.md`)을 더 넘긴다:
   `schema, frame, updates, axis_rad, origin_uv, occupied, encoding, age_s, cell_m, shape, bits(24 KiB 이하), cells(2,000개 이하), truncated, lines {left, right, centre, quality, stamp}, base_pose`.
-  run 주행 거리 좌표이고 GNSS가 아니다. 실행기가 내지 않으면 칸이 없고 지도 화면은 그 층을 숨긴다.
+  run 주행 거리 좌표이고 GNSS가 아니다. 실행기가 내지 않으면 칸이 없고 화면은 그 층을 숨긴다.
 
 상태 전이(실행기가 정한다. 화면은 받은 `run_state`만 보여 준다):
 
@@ -176,11 +176,11 @@ stateDiagram-v2
 | 항목 | 값 |
 | --- | --- |
 | 주 버튼 | idle·ended "준비"(start, MOTOR면 이어서 arm) → ready "Arm" → armed "자율 주행 시작"(go) → running "주행 중"(꺼짐) → paused "다시 출발"(새 go) → latched "래치 확인"(ack). go 버튼은 `go_ready`일 때만 켜고, 아니면 `go_blockers`를 한국어로 보인다(규약 개정 2) |
-| heartbeat | `run_state`가 armed·running·paused이고 상태가 새것인 동안, 주행 화면이 보이고 탭이 보일 때만 100 ms마다(규약 개정 1, 늦어도 250 ms). go 전 armed부터 보내므로 go 때 운영자 연결이 이미 새것이다(`operator_link_not_fresh` 막음 없음). 탭을 숨기거나 화면을 떠나면 멈춘다 → 실행기가 `operator_link.timeout_s` 뒤 선다(규약 개정 1: 기본 0.5 s, 범위 0.5 ~ 3.0, 화면에서 못 바꿈. 화면은 상태의 값을 보인다) |
+| heartbeat | `run_state`가 armed·running·paused이고 상태가 새것인 동안, Rover Control이 열려 있고 탭이 보일 때만(스크롤 위치와 무관) 100 ms마다(규약 개정 1, 늦어도 250 ms). go 전 armed부터 보내므로 go 때 운영자 연결이 이미 새것이다(`operator_link_not_fresh` 막음 없음). 탭을 숨기거나 화면을 떠나면 멈춘다 → 실행기가 `operator_link.timeout_s` 뒤 선다(규약 개정 1: 기본 0.5 s, 범위 0.5 ~ 3.0, 화면에서 못 바꿈. 화면은 상태의 값을 보인다) |
 | lease 잃음(규약 개정 3) | Arm 뒤 첫 go 전에 브리지가 lease를 거두면 run은 열린 채 `ready`, `go_blockers`에 `lease_lost`·`arm_first`. 주 버튼은 "Arm 다시 (브리지가 권한을 거둠)", 안내 "브리지가 권한을 거뒀다: Arm을 다시 누른다" |
 | heartbeat 409 | `session_conflict`: 다른 화면이 출발 권한을 가짐. 화면은 오류 줄에 보인다(자동으로 빼앗지 않는다) |
-| 상태 읽기 | 주행 화면이 보일 때 500 ms, 숨김이면 멈춤 [자리값] |
-| STOP | 주행 패널 STOP, 상태 막대 STOP, Esc(주행 화면): 기존 브리지 stop(한 번) 그대로에 더해, run이 있거나 실행기 상태를 모르면 실행기 stop도 보낸다. 자율 칸에 따로 STOP 버튼을 두지 않는다(같은 패널 위에 STOP이 있다) |
+| 상태 읽기 | Rover Control이 보일 때 500 ms, 숨김이면 멈춤 [자리값] |
+| STOP | 주행 패널 STOP, 상태 막대 STOP, Esc(Rover Control): 기존 브리지 stop(한 번) 그대로에 더해, run이 있거나 실행기 상태를 모르면 실행기 stop도 보낸다. 자율 칸에 따로 STOP 버튼을 두지 않는다(같은 패널 위에 STOP이 있다) |
 | 실행기 없음 | 설정 없음 → "실행기 설정 없음", 응답 없음 → "실행기 연결 안 됨". 버튼 꺼짐, STOP은 브리지 stop으로 계속 동작 |
 
 정지 이유 이름표(`stop_reason`, `single_row.stop_category`): `ROW_END` 정상 열 끝, `OBSTACLE` 열 안 장애물, `END_STRUCTURE` 열 끝 구조물, `PERCEPTION_OR_LOCALISATION` 센서·위치 추정 부족,
@@ -251,7 +251,7 @@ stateDiagram-v2
 바뀌면 태그에 보존한 뒤 내린다. 이 결정은 2026-11-13 묶음 S6에서 다시 확인했다(코드는 그대로 둠).
 
 - 그때까지 그대로 두는 것: 차동 패드와 `left`/`right` 명령, 옛 감독기 `/api/autonomy/*`, 관찰 패널, 현장 준비 점검표. 이력 경로이며 조향 차량(`front_steer`)에서는 쓰지 않는다.
-- `DASHBOARD_VEHICLE=differential`(기본)에서 화면과 서버 동작은 이 사양 전과 같다. 새 자율·조정 화면은 실행기 설정이 없으면 "설정 없음"만 보인다.
+- `DASHBOARD_VEHICLE=differential`(기본)에서 화면과 서버 동작은 이 사양 전과 같다. 새 자율·조정 칸은 실행기 설정이 없으면 "설정 없음"만 보인다.
 - `front_steer`에서는 차동 패드와 옛 자율 자리 패널을 숨기고 조향 패널을 보인다. 옛 경로 자체는 남는다.
 - 내리는 조건(모두): (1) Jetson에 V3 펌웨어와 조향 브리지(`scripts.steer_rover_bridge`, serial)가 설치되어 상태에 `steering` 블록이 나온다, (2) 사용자가 현장에서 조향 수동 조종을 확인했다, (3) 조향 실행기가 Jetson에 설치되어 자율 시작·정지를 확인했다. 셋이 채워지면 나5에 따라 내린다.
 - 내릴 묶음(세 묶음을 같이 내린다): 서버 `dashboard_server/` 의 `autonomy_settings`, `autonomy_observation`, `record_based_autonomy`, `native_autonomy_application`, `native_autonomy_supervisor`, `native_observation_client`, `native_owner_lifecycle`, `field10_shadow`, `field10_shadow_preflight`, `field_preflight`, `encoderless_drive_preview`, `_field10/`;
@@ -289,11 +289,11 @@ stateDiagram-v2
 | --- | --- | --- |
 | 확장 지점(2절, D-12) | `dashboard_server/extensions.py`, `GET /api/dashboard/config`, 화면 표시 `data-vehicle-kind` | 시뮬레이션 쪽 모듈을 이 지점에 꽂기(D-13, 묶음 S5) |
 | 조향 호스트 코드(D-11) | `scripts/esp_motor_v3.py` 등 4개와 시험 7개, compose 프로필 `steer`(기록: `STEERING_HOST_PORT_KO.md`) | 실기 ESP·USB·Jetson 확인(사용자) |
-| 수동 조향(3·4절, UI-07) | `static/steer/steer-control-rules.js`, `steer-drive.mjs`. `front_steer`에서만 보임. 주행 화면의 큰 보기(카메라·LiDAR 하나, `docs/SCREENS_KO.md`) | 실기 확인(사용자) |
+| 수동 조향(3·4절, UI-07) | `static/steer/steer-control-rules.js`, `steer-drive.mjs`. `front_steer`에서만 보임. Rover Control의 주행 제어 패널(`docs/SCREENS_KO.md`) | 실기 확인(사용자) |
 | 자율 시작·정지(6절, UI-08) | `dashboard_server/executor_proxy.py`, `static/steer/auto-model.mjs`(준비 = start 뒤 새 상태를 읽고 ready면 Arm), `auto-panel.mjs` | 실행기(S1) 실제 연결 확인 |
 | 지도의 국소 격자(6절, UI-09) | `GET /api/executor/status?grid=1`, `static/steer/local-grid.mjs`(점유 셀·열 선·중심선·차, 실행기가 낼 때만) | 지도 갱신 지연 측정, 실시간 점유 격자와 겹쳐 그리기 |
-| 조정(7절, UI-12) | `/tuning`, `dashboard_server/steer_tuning.py`(실행기 field_tuning 묶음), `static/steer/tuning-model.mjs`, `tuning-page.mjs`, 프리셋 불러오기·저장, 변경 기록 | PWM-속도 표 그래프, 고급 묶음 화면 편집(실행기에도 없음) |
-| 조향 가변저항(UI-11) | 센서 화면 카드 `static/steer/steer-sensor.mjs`(읽기만) | 실기 값 확인 |
+| 조정(7절, UI-12) | Rover Control의 접힌 '현장 조정 값' 칸(`/tuning`은 별칭), `dashboard_server/steer_tuning.py`(실행기 field_tuning 묶음), `static/steer/tuning-model.mjs`, `tuning-page.mjs`, 프리셋 불러오기·저장, 변경 기록 | PWM-속도 표 그래프, 고급 묶음 화면 편집(실행기에도 없음) |
+| 조향 가변저항(UI-11) | Rover Control 주행 제어 패널의 줄 `static/steer/steer-sensor.mjs`(읽기만, 조향 패널의 상태 답을 같이 씀) | 실기 값 확인 |
 | 조향 기록(5절) | 바꾸지 않음 | 녹화기 토픽·사이드카(P9) |
 | 조종 WebSocket(3절) | 없음(HTTP) | NET-05(S4a) 측정 뒤 결정 |
 

diff --git a/tools/slow_link/README_KO.md b/tools/slow_link/README_KO.md
@@ -140,16 +140,18 @@ python -B tools/slow_link/compare.py --replace-all --accept <r>/20261113T053845Z
 
 ## 시나리오
 
-`sensors`와 `map`을 뺀 모두 주행 화면(`/rover-control`)에서 잰다. 화면 6개(2026-11-13) 뒤 주행 화면은 카메라와 LiDAR 중 하나만 크게 보이고(기본 카메라),
-IMU는 센서 화면, 실시간 지도와 GPS는 지도 화면에 있다. 그래서 `drive`에는 LiDAR·IMU·GPS 수치가 없고, 그 수치는 `drive_lidar`·`sensors`·`map`에서 잰다.
+`sensors`를 뺀 모두 Rover Control(`/rover-control`)에서 잰다. 메뉴를 수정 전 구성으로 되돌린 뒤(UI-16, 2026-11-14) Rover Control에는
+LiDAR·카메라·GPS·IMU·조종·조정 값·기록 패널이 다시 모여 있고, 스트림과 지도 요청은 그 패널이 화면에 있을 때만 열린다(`docs/SCREENS_KO.md` 3절).
+그래서 `drive`(1366x900 첫 화면)에서는 LiDAR와 카메라가 열리고 IMU·GPS·실시간 지도는 열리지 않는다. 화면 6개(2026-11-13) 판에서는 주행 화면이
+카메라와 LiDAR 중 하나만 크게 보였다(`drive_lidar`는 그 판을 잴 때 쓴다).
 
 | 이름 | 하는 일 |
 | --- | --- |
 | `drive` | 처음 열기(빈 캐시) → 다시 열기(같은 탭) → 2분 실시간. 실시간 동안 조종 연습을 되풀이한다. 큰 보기는 카메라 |
-| `drive_lidar` | `drive`와 같고 주행 화면의 큰 보기만 LiDAR(화면의 `ubts-drive-view-v1` 값을 미리 넣는다) |
-| `sensors` | 센서 화면(`/sensors`) 처음 열기 → 2분 실시간(LiDAR, 카메라, IMU). 조종 연습 없음 |
-| `map` | 지도 화면(`/map`) 처음 열기 → 10분 실시간, 실시간 격자 지도 그리기 켬(GPS 포함). 조종 연습 없음 |
-| `drive_map` | 처음 열기 → 10분 실시간, 조종 연습. 지도 그리기 켜기를 시도하지만 화면 6개 뒤 주행 화면에는 지도가 없어 지도 수치가 비고, 10분 조종만 남는다 |
+| `drive_lidar` | 화면 6개 판에서 `drive`와 같고 주행 화면의 큰 보기만 LiDAR(화면의 `ubts-drive-view-v1` 값을 미리 넣는다). 되돌린 판에서는 `drive`와 같다 |
+| `sensors` | Connection(`/connection`, 화면 6개 판의 `/sensors`) 처음 열기 → 2분 실시간(LiDAR 지도, 카메라). 조종 연습 없음 |
+| `map` | `/map`(되돌린 판에서는 Rover Control의 별칭, 실시간 지도로 스크롤) 처음 열기 → 10분 실시간, 실시간 격자 지도 그리기 켬. 조종 연습 없음 |
+| `drive_map` | 처음 열기 → 10분 실시간, 조종 연습. 지도 그리기 켜기를 시도한다. 첫 화면에 지도 칸이 없으면 지도 요청이 없어 지도 수치가 빈다 |
 | `load` | 처음 열기와 다시 열기만 |
 | `hidden` | 1분 보이고, 탭을 숨긴 채 1분 |
 | `session_expiry` | 대시보드 세션 만료를 50초로 줄이고 150초 (스트림이 끊기는지) |

diff --git a/deploy/jetson_dashboard/README_KO.md b/deploy/jetson_dashboard/README_KO.md
@@ -104,7 +104,7 @@ python3 rollback_dashboard.py --apply    # 되돌리기
 
 | 변경 | 어디 | 이 묶음(대시보드 컨테이너)만으로 |
 | --- | --- | --- |
-| 화면 6개, 조향 수동·자율·조정 화면, 실행기 중계(`/api/executor/*`) | `static/`, `dashboard_server/` | 된다. 조향 화면은 `DASHBOARD_VEHICLE=front_steer` 와 조향 브리지·실행기가 있어야 쓸모가 있다(아래) |
+| 메뉴 8쪽(수정 전 구성, UI-16), Rover Control 안의 조향 수동·자율·조정 값·국소 격자, 실행기 중계(`/api/executor/*`) | `static/`, `dashboard_server/` | 된다. 조향 칸은 `DASHBOARD_VEHICLE=front_steer` 와 조향 브리지·실행기가 있어야 쓸모가 있다(아래) |
 | 첫 화면 무게 줄이기, 정적 파일 해시 주소와 긴 캐시(NET-03, NET-04) | `static/`, `dashboard_server/static_assets.py` | 된다 |
 | 연결 유지와 조종 우선(NET-05), 상태 요청 묶음·ETag(NET-06) | `dashboard_server/app.py`, `static/app/01-format-http.js` | 된다 |
 | 카메라: 자동일 때 1080 원본 미리보기 안 씀, 화면 밖 패널 멈춤, 등급별 크기·화질(NET-08, NET-10) | `static/` | 된다. 카메라 브리지는 기준판 이후 바뀌지 않았다(브리지가 이미 받는 크기·화질만 고른다) |

diff --git a/docs/README_KO.md b/docs/README_KO.md
@@ -27,7 +27,7 @@
 | [grid_cell_transport.md](grid_cell_transport.md) | 격자 지도를 셀 숫자로 보내고 브라우저가 그리는 형식 | 현재 |
 | [slow_link.md](slow_link.md) | 느린 2.4 GHz 연결: 시험대, 기준 측정, 원인, 목표 32개, 고친 뒤와 최종 측정(12절) | 현재 |
 | [WIFI_AP_CHECKLIST_KO.md](WIFI_AP_CHECKLIST_KO.md) | 차의 무선 AP 현장 점검표(채널·대역·출력·안테나·거리), 현장 연결 기록(`?link_log=1`)과 등급 경계 다시 맞추기 | 현재 |
-| [SCREENS_KO.md](SCREENS_KO.md) | 화면 6개(주행·지도·센서·기록·조정·시스템)와 옛 주소, 기능 대조표 | 현재 |
+| [SCREENS_KO.md](SCREENS_KO.md) | 메뉴 8쪽(수정 전 구성으로 되돌림, UI-16), Rover Control 안의 새 기능 자리, 화면 6개 주소의 별칭 | 현재 |
 
 ## 조종 (차동 V2)
 
